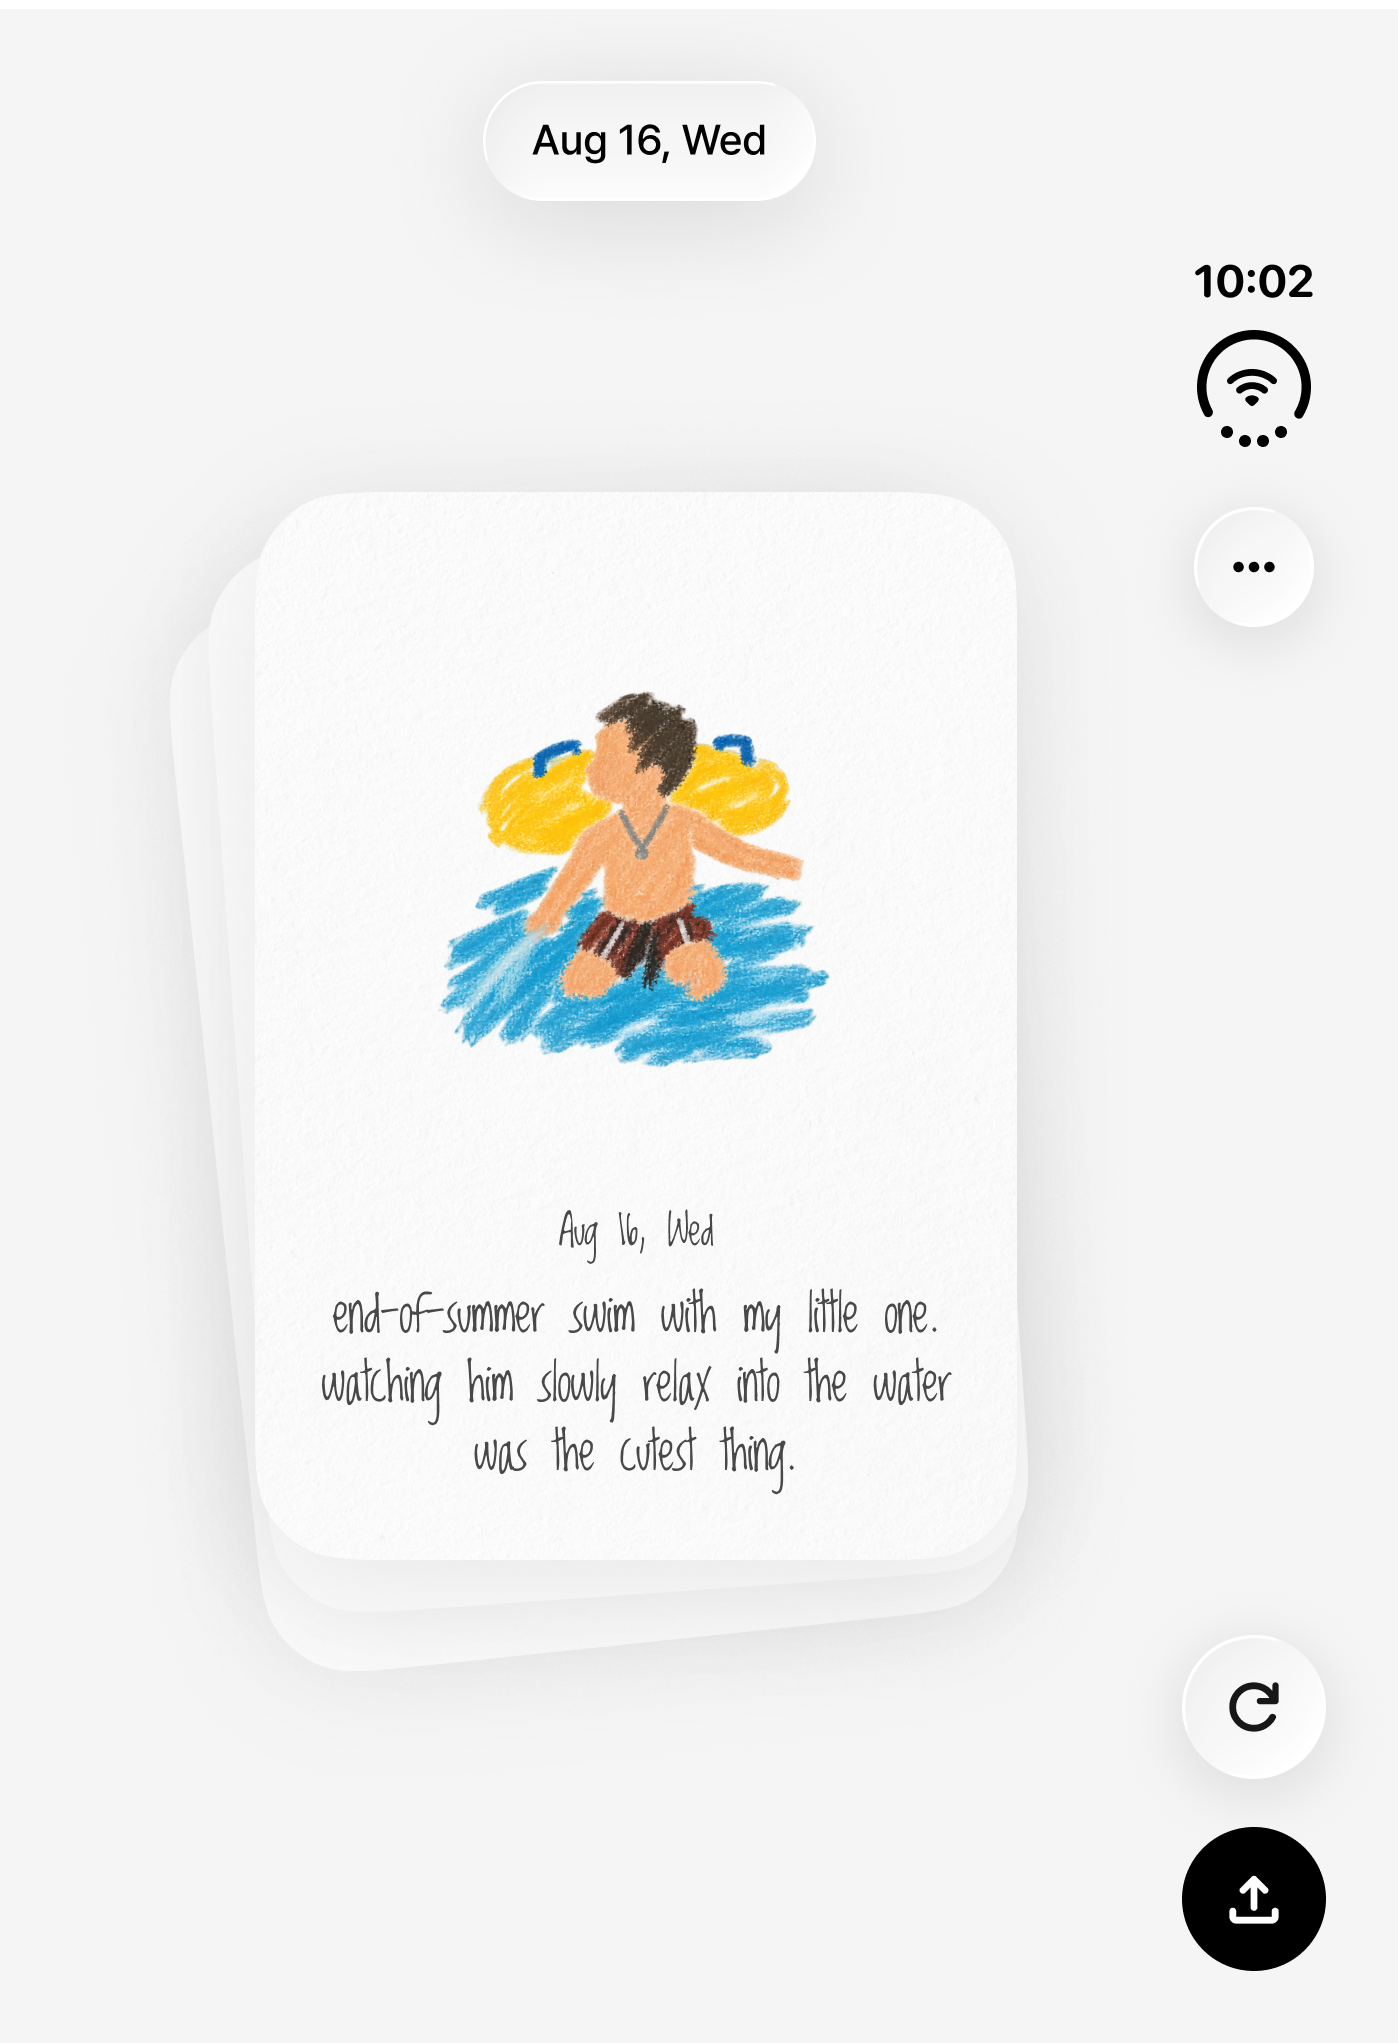
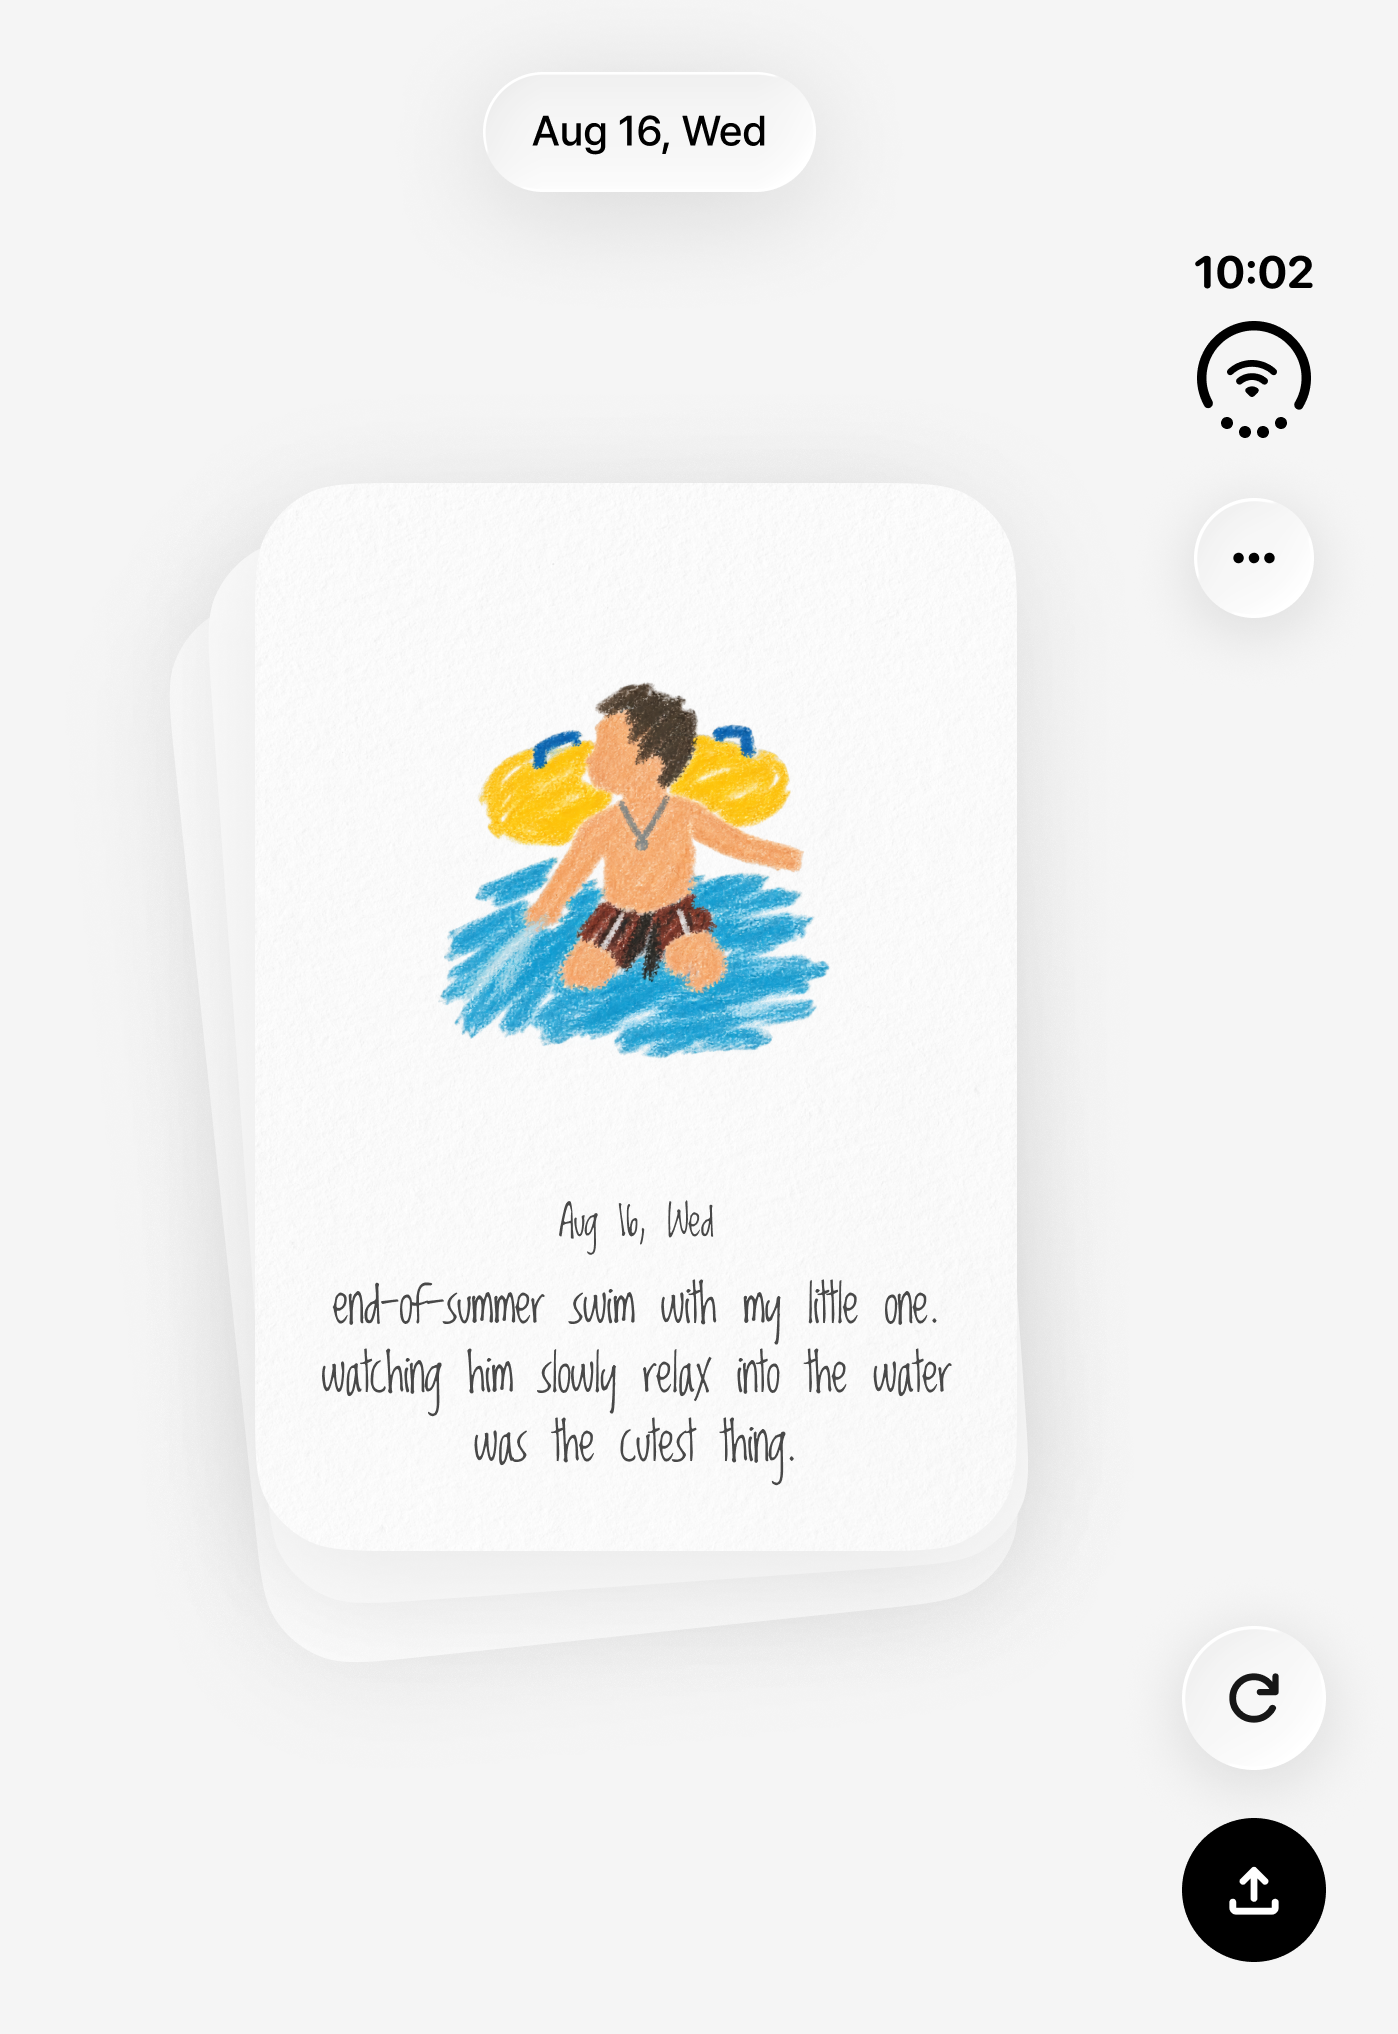
Remove the grey line at the top of the cover screen
Figma's transparent export carries faint drop-shadow rows above the frame
with black/white RGB; crop to solid pixels and give non-opaque pixels the
paper colour so texture filtering can't bleed a fringe.

Claude-Session: https://claude.ai/code/session_01CF8FfDyuY6Woy4uhUeczSh

diff --git a/scripts/prepare-screens.py b/scripts/prepare-screens.py
@@ -47,11 +47,19 @@ def light(rows, x, y): return rows[y][x * 4] > 0x80
 def has_alpha(rows, w, h):
     return any(rows[y][x * 4 + 3] < 255 for y in range(0, h, 5) for x in range(0, w, 5))
 
+SOLID = 128  # alpha threshold: ignores faint drop-shadow rows Figma exports around the frame
+
 def crop_to_opaque(rows, w, h):
-    ys = [y for y in range(h) if any(rows[y][x * 4 + 3] > 0 for x in range(0, w, 4))]
-    xs = [x for x in range(w) if any(rows[y][x * 4 + 3] > 0 for y in range(0, h, 4))]
+    ys = [y for y in range(h) if any(rows[y][x * 4 + 3] >= SOLID for x in range(0, w, 4))]
+    xs = [x for x in range(w) if any(rows[y][x * 4 + 3] >= SOLID for y in range(0, h, 4))]
     x0, x1, y0, y1 = xs[0], xs[-1] + 1, ys[0], ys[-1] + 1
-    return x1 - x0, y1 - y0, [r[x0 * 4:x1 * 4] for r in rows[y0:y1]]
+    cropped = [bytearray(r[x0 * 4:x1 * 4]) for r in rows[y0:y1]]
+    # Non-opaque pixels (corner arcs, edge antialiasing) carry black/white RGB in Figma exports; texture
+    # filtering and mipmaps blend that RGB into neighbours as a grey fringe. Give them the paper colour.
+    for row in cropped:
+        for x in range(x1 - x0):
+            if row[x * 4 + 3] < 255: row[x * 4:x * 4 + 3] = bytes((PAPER, PAPER, PAPER))
+    return x1 - x0, y1 - y0, cropped
 
 def process(src, dst, crop, corners):
     w, h, rows = read_png(src)
